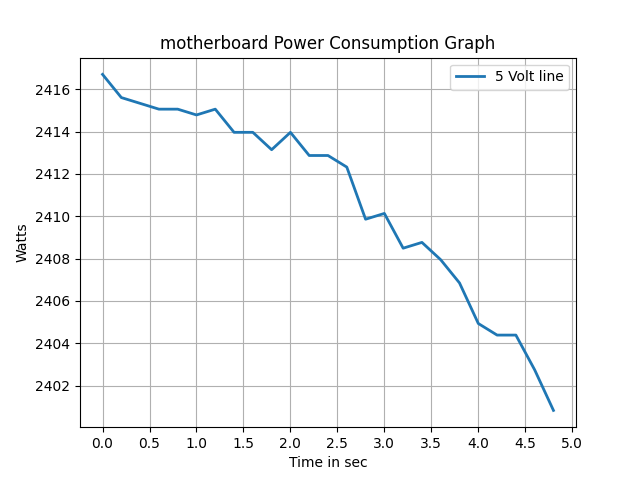
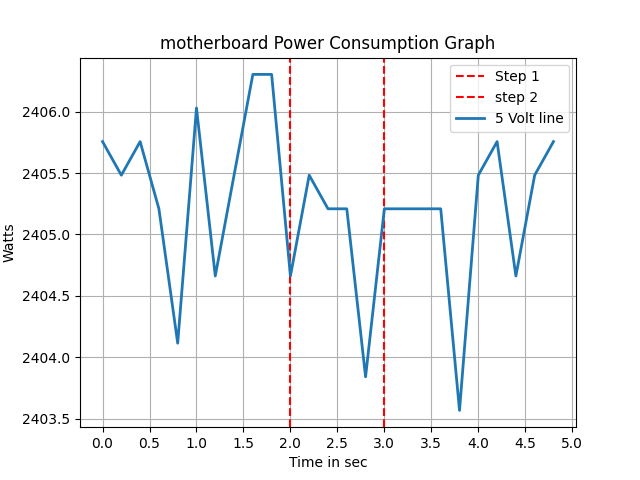
Fixed the graphing issue

diff --git a/client.py b/client.py
@@ -2,6 +2,8 @@ from powerMeasurer import PowerPack
 import socket
 import json
 import socket
+from datetime import datetime
+import time
 
 SERVER_IP = "127.0.0.1" # refers to your own machine 
 SERVER_PORT = 25565
@@ -38,12 +40,15 @@ def measure(ip, port, message):
         startMeasuring = client_socket.recv(16)
         if startMeasuring:
             print(f"Response from server: {startMeasuring.decode('utf-8')}\n\n")
+            
+            print(str(time.time()) + "calling the the start function")
             power_pack.start()
 
         # Recieve response from the server to stop measuring
         stopMeasuring = client_socket.recv(16).decode('utf-8')
         if stopMeasuring:
             print("The process has been completed, so stop measuring\n\n")
+            print(str(time.time()) + "calling the stop function")
             power_pack.stop()
             print(f"\n\n{stopMeasuring}\n\n")
     

diff --git a/partWeAreMeasuring/partSetUp.py b/partWeAreMeasuring/partSetUp.py
@@ -262,12 +262,16 @@ class Measurements:
         '''
         
         plt.figure()
-        for index, line in enumerate(lines):
-            plt.plot(time, line, label=f'{voltageAmount[index]} line', lw=2)
+        # for index, line in enumerate(lines):
+        #     plt.plot(time, line, label=f'{voltageAmount[index]} line', lw=2)
 
         if verticalAsymtotes:
             for asymtote in verticalAsymtotes:
-                plt.axvline(x=asymtote, color='r', linestyle='--', label=f'{verticalAsymtotes[asymtote]}')
+                plt.axvline(x=float(asymtote), color='r', linestyle='--', label=f'{verticalAsymtotes[asymtote]}')
+
+        for index, line in enumerate(lines):
+            plt.plot(time, line, label=f'{voltageAmount[index]} line', lw=2)
+
         plt.xlabel('Time in sec')
         plt.ylabel('Watts')
         plt.title(f'{name} Power Consumption Graph')

diff --git a/server.py b/server.py
@@ -3,6 +3,7 @@ import signal
 import sys
 import subprocess
 import json
+from datetime import datetime
 import time
 
 def reader(file):
@@ -62,12 +63,13 @@ def start_server(ip, port):
             
             # Process Starting message being sent
             client_socket.sendall(processStarting.encode('utf-8'))
-
             # Running the class
+            print(str(time.time()) + " SubProcess being called")
             result = subprocess.run(["python3","timeWatch.py", "5"], capture_output=True, text=True)
 
             # Process Finished message being sent
             processComplete = "Process finished"
+            print(str(time.time()) + "Subprocess ending")
             client_socket.sendall(processComplete.encode('utf-8'))
 
             #Printing out any errors

diff --git a/powerMeasurer.py b/powerMeasurer.py
@@ -2,6 +2,7 @@ from partWeAreMeasuring.partSetUp import Measurements
 import threading
 import time
 from typing import List
+from datetime import datetime
 '''
 This class is a wrapper and is in charge of running the task of the
 different parts in the computer. It is also in charge of calling their
@@ -131,6 +132,9 @@ class PowerPack:
         for thread in self.threads:
             thread.start()
         self.started = True
+        print(str(time.time()) + " end of start function")
+
+        
 
     def stop(self):
         '''
@@ -145,6 +149,7 @@ class PowerPack:
         self.endTime = time.time()
         self.TotalTime = self.endTime - self.startTime
         self.started = False
+        print(str(time.time()) + " end of stop")
 
         
 

diff --git a/timeWatch.py b/timeWatch.py
@@ -9,6 +9,8 @@ if len(args) != 2:
 
 tiempo = args[1]
 print("In time")
+
+# represents the function
 time.sleep(int(tiempo))
 times = {2:"Step 1", 3: "step 2"}
 
